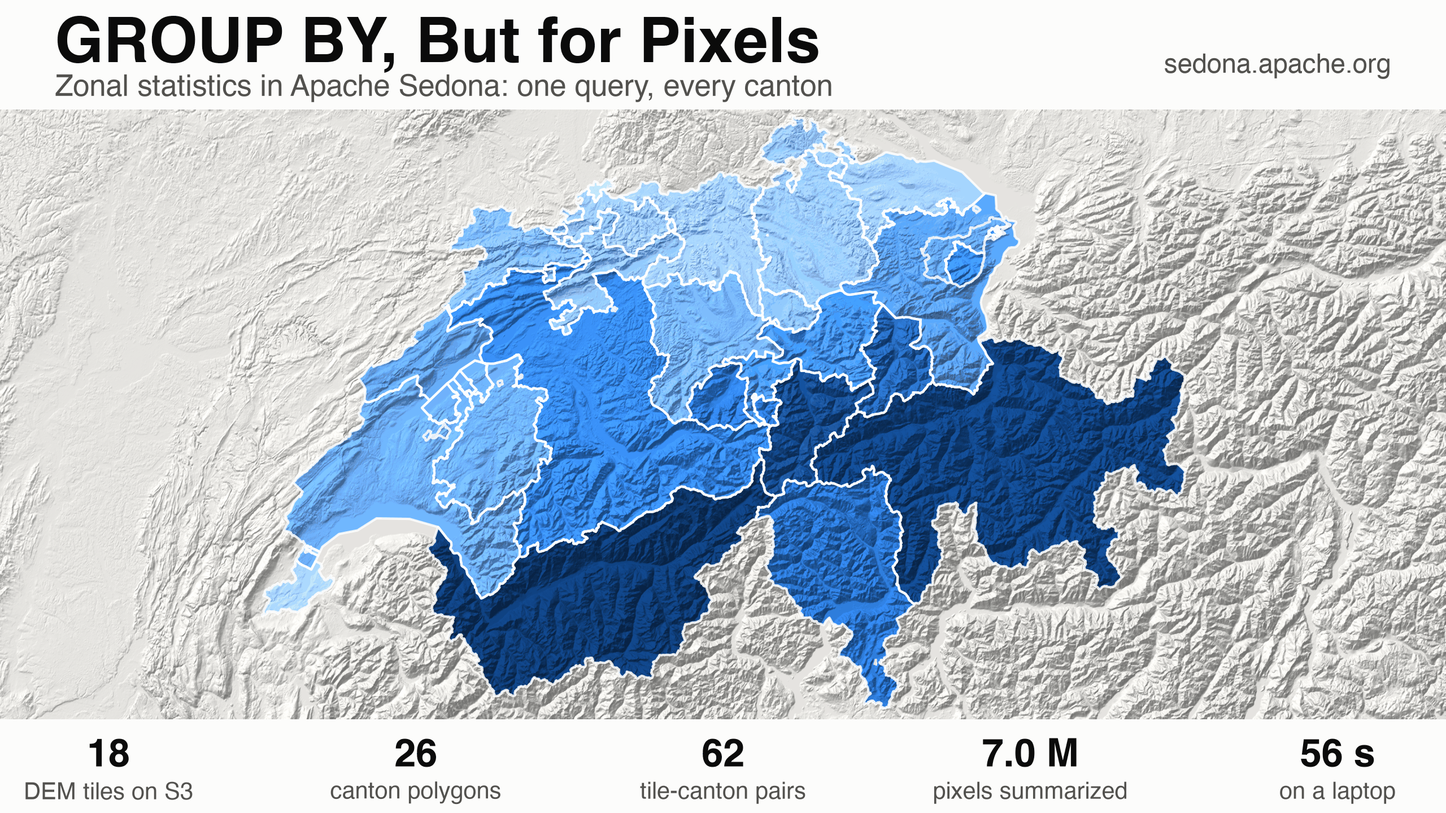
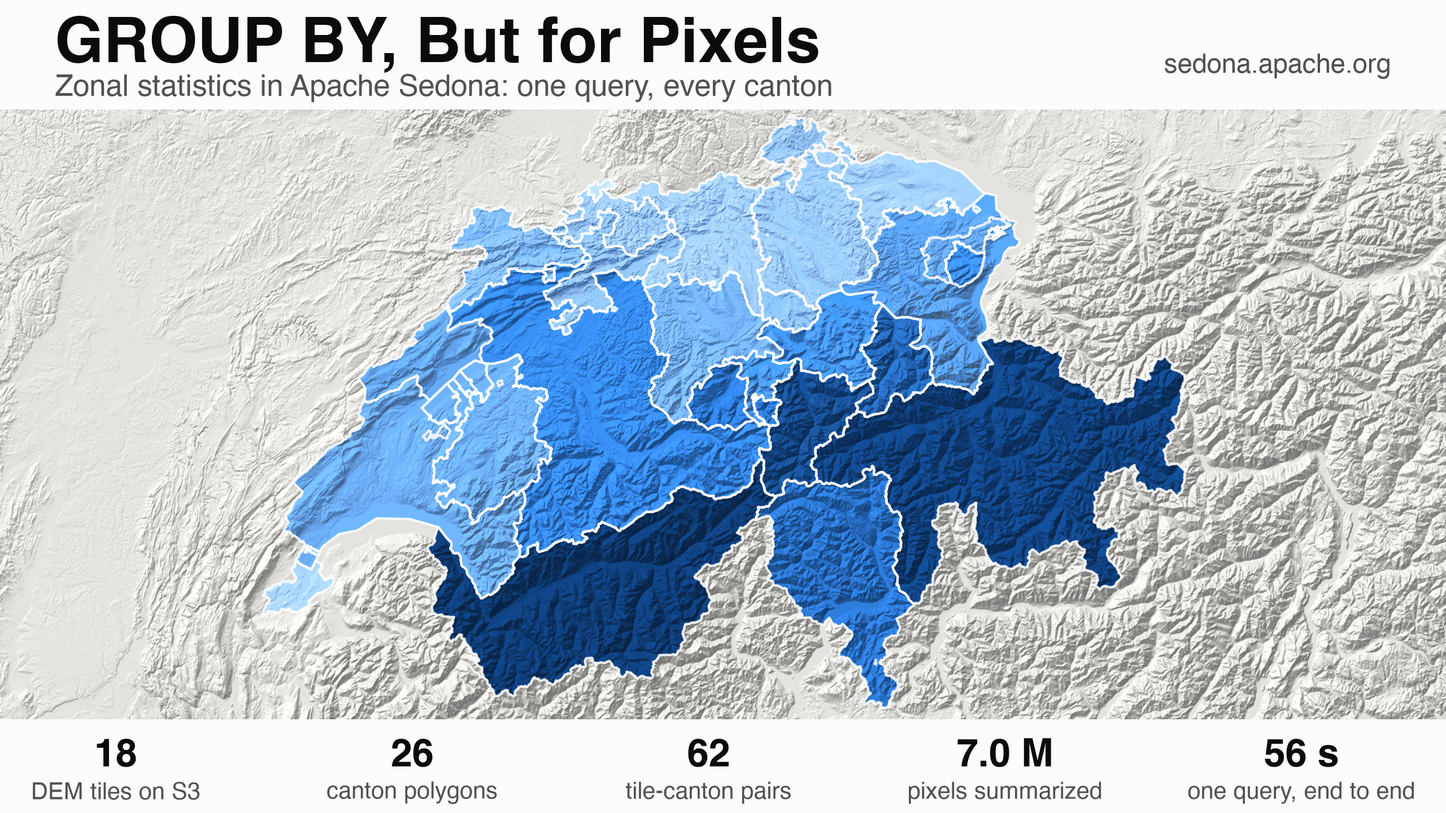
[DOCS] Keep the zonal statistics post focused on scale

diff --git a/docs/blog/posts/zonal-statistics.md b/docs/blog/posts/zonal-statistics.md
@@ -12,7 +12,7 @@ title: "GROUP BY, But for Pixels"
 
 # GROUP BY, But for Pixels
 
-Almost every raster question ends at a polygon. Mean elevation per canton, forest cover per district, flood depth per parcel. The imagery arrives as a grid of numbers; the answer has to arrive as a table with one row per zone. Zonal statistics is the operation between the two, and in Sedona it is one function call inside an ordinary spatial join. Below: every Swiss canton, summarized from 7 million elevation pixels pulled straight off S3, in 56 seconds on a laptop.
+Almost every raster question ends at a polygon. Mean elevation per canton, forest cover per district, flood depth per parcel. The imagery arrives as a grid of numbers; the answer has to arrive as a table with one row per zone. Zonal statistics is the operation between the two, and in Sedona it is one function call inside an ordinary spatial join. Below: every Swiss canton, summarized from 7 million elevation pixels pulled straight off S3, in 56 seconds with one query.
 
 ![Shaded relief of Switzerland and the Alps, each canton tinted by its mean elevation from pale blue in the lowlands to deep blue across Valais and Graubünden](zonal-statistics-cover.png)
 
@@ -98,7 +98,7 @@ GROUP BY name
 ORDER BY mean_m DESC
 ```
 
-Twenty-six rows, 7,006,027 pixels summarized, 56 seconds from a cold session on four laptop cores. The top of the table is the Alps:
+Twenty-six rows, 7,006,027 pixels summarized, 56 seconds from a cold session. The top of the table is the Alps:
 
 ```
 +----------------------------+---------+------+-----+------+
@@ -132,7 +132,7 @@ Valais covers 4,166 m of vertical range. Genève covers 197 m. Both are one row 
 +------+--------+--------+----------------------------------------------------------------------------------------------------------------------------------------------+
 ```
 
-That fan-out is the reason the pattern scales. Every pair is an independent unit of work: one tile, one polygon, no coordination with any other pair. On a laptop the 62 pairs fill four cores. Point the same query at a continent of tiles and a national parcel layer and the pair count grows into the millions, spread across whatever cluster you have, with the query text unchanged. The tiles themselves never pass through the driver.
+That fan-out is the reason the pattern scales. Every pair is an independent unit of work: one tile, one polygon, no coordination with any other pair. The 62 pairs here already run in parallel. Point the same query at a continent of tiles and a national parcel layer and the pair count grows into the millions, spread across every executor in the cluster, with the query text unchanged. The tiles never pass through the driver.
 
 ## Which numbers survive the reassembly
 
